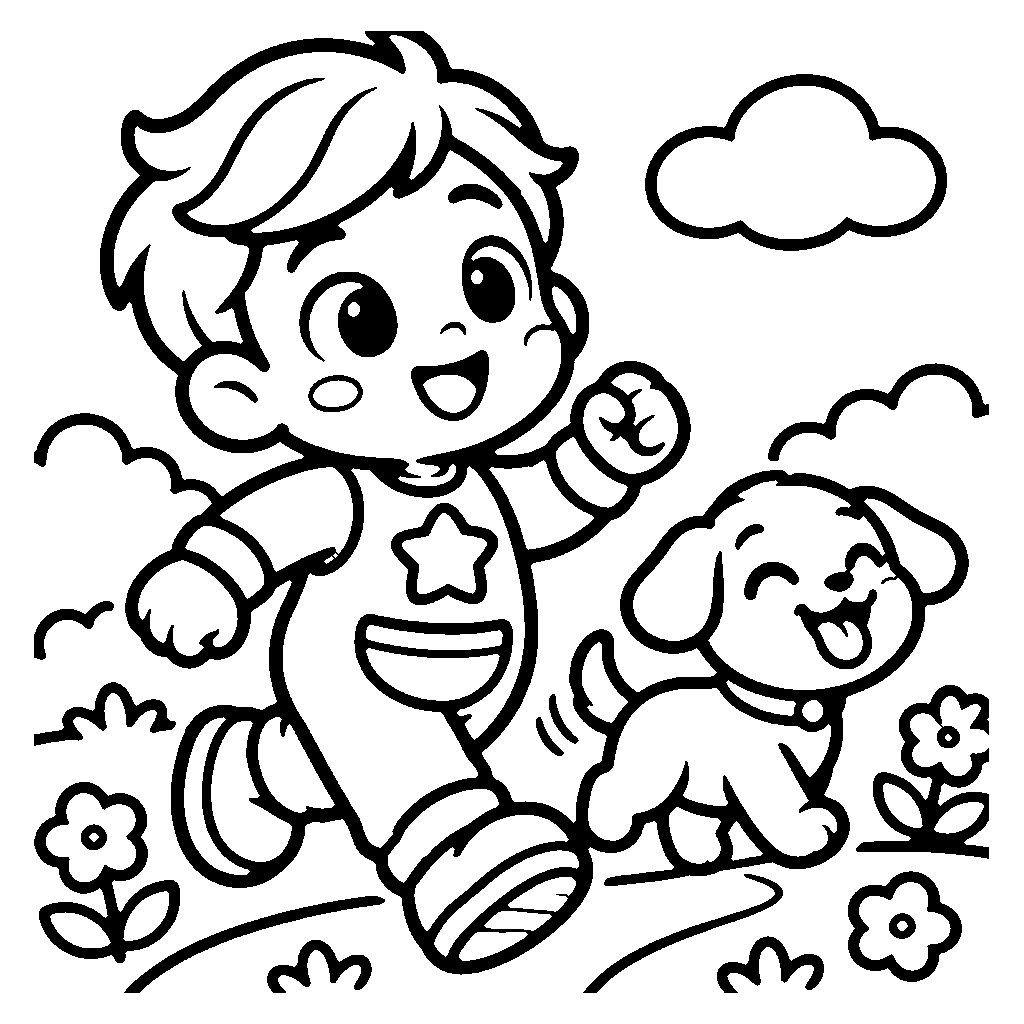
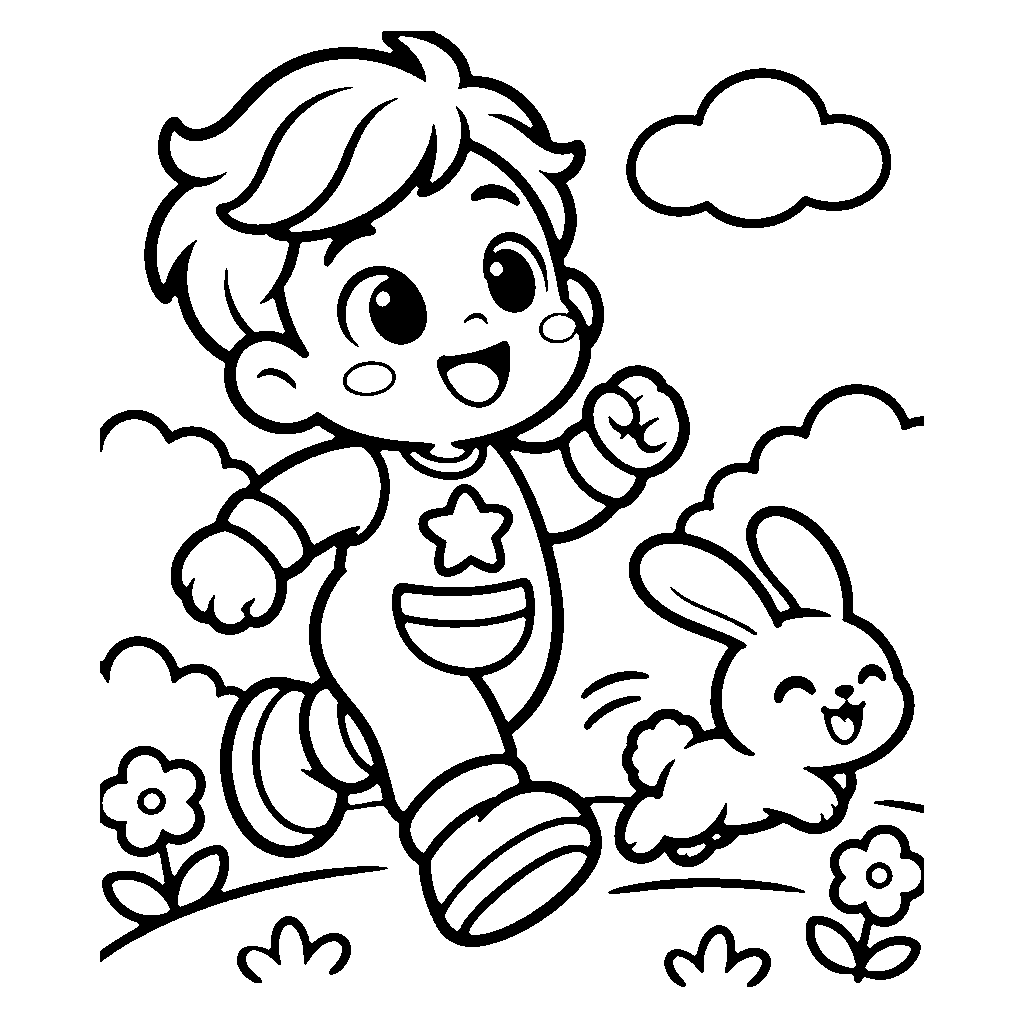
Colouring: magic crayon in Mo's real colours + rabbit page (#408)
* Colouring: Mo's real colours for the magic crayon (39 aligned coloured guides), rabbit page for pose-32

Claude-Session: https://claude.ai/code/session_013wiJDRdH28m1FqwwMnvbtM

* Bump cache to v347

Claude-Session: https://claude.ai/code/session_013wiJDRdH28m1FqwwMnvbtM

---------

Changed region(s): [[0.0312, 0.0312, 0.9688, 0.9688]]

diff --git a/www/mo-color.js b/www/mo-color.js
@@ -170,7 +170,7 @@
     // background = the biggest shape touching the edge of the page
     bgL = -1; let best = 0;
     for (let i = 0; i < N; i++) for (const p of [i, (N - 1) * N + i, i * N, i * N + N - 1]) { const L = labels[p]; if (L >= 0 && regions[L] > best) { best = regions[L]; bgL = L; } }
-    colorOf = new Array(R).fill(null); glitterOf = new Array(R).fill(false); history = []; adj = null; guideCol = null; celebrated = false; halfSaid = false; fills = 0;
+    colorOf = new Array(R).fill(null); glitterOf = new Array(R).fill(false); history = []; adj = null; guideCol = null; guideData = null; celebrated = false; halfSaid = false; fills = 0;
   }
   function hex(c) { const n = parseInt(c.slice(1), 16); return [n >> 16 & 255, n >> 8 & 255, n & 255]; }
   let fill;
@@ -188,7 +188,16 @@
     if (clip) ctx.restore();
   }
   function setRegion(L, color, glitter) {
-    const c = color ? hex(color) : [255, 255, 255], f = fill.data;
+    const f = fill.data;
+    if (color && color[0] === 'g' && guideData && guideCol && guideCol[L]) {
+      const cl = guideCol[L], d = guideData;
+      for (let k = start[L]; k < start[L + 1]; k++) { const p = order[k], i = p * 4; let best = cl[0], bd = 1e9;
+        if (Math.min(d[i], d[i + 1], d[i + 2]) > 236) best = WHITE3;   // white in the coloured version (margin, clouds) stays white
+        else if (Math.max(d[i], d[i + 1], d[i + 2]) >= 75) for (const c of cl) { const dd = (c[0] - d[i]) ** 2 + (c[1] - d[i + 1]) ** 2 + (c[2] - d[i + 2]) ** 2; if (dd < bd) { bd = dd; best = c; } }
+        f[i] = best[0]; f[i + 1] = best[1]; f[i + 2] = best[2]; }
+      return;
+    }
+    const c = color ? hex(color) : [255, 255, 255];
     for (let k = start[L]; k < start[L + 1]; k++) {
       const i = order[k] * 4;
       if (glitter) {                                // sparkly texture: light speckles and a soft sheen
@@ -204,17 +213,38 @@
     guideImg = null; if (!src) return;
     const g = new Image(); g.onload = () => { guideImg = g; guideCol = null; }; g.onerror = () => { guideImg = null; }; g.src = src;
   }
+  /* The coloured version → for each shape, its main colours (up to 4, each at least 10% of it).
+     One colour: a flat fill. Several (a sky and grass that share a shape because of a tiny gap in a line,
+     hair that leaks into the sky…): every pixel takes the nearest of them, so each part gets its real colour. */
+  let guideData = null;
   function guideColours() {
     if (guideCol || !guideImg) return guideCol;
     const c = document.createElement('canvas'); c.width = c.height = N; const x = c.getContext('2d', { willReadFrequently: true }); fitDraw(x, guideImg);
-    const d = x.getImageData(0, 0, N, N).data; guideCol = [];
+    const d = guideData = x.getImageData(0, 0, N, N).data; guideCol = [];
     for (let L = 0; L < regions.length; L++) {
-      let r = 0, g = 0, b = 0, n = 0; const step = Math.max(1, Math.floor(regions[L] / 1500));
-      for (let k = start[L]; k < start[L + 1]; k += step) { const i = order[k] * 4; r += d[i]; g += d[i + 1]; b += d[i + 2]; n++; }
-      guideCol[L] = n ? '#' + [r, g, b].map(v => Math.round(v / n).toString(16).padStart(2, '0')).join('') : null;
+      const bins = new Map(), step = Math.max(1, Math.floor(regions[L] / 3000)); let all = 0;
+      for (let k = start[L]; k < start[L + 1]; k += step) { const i = order[k] * 4, R = d[i], G = d[i + 1], B = d[i + 2];
+        if (Math.max(R, G, B) < 75) continue; all++;
+        const key = Math.min(R, G, B) > 232 ? -1 : (R >> 5) << 6 | (G >> 5) << 3 | (B >> 5), e = bins.get(key) || [0, 0, 0, 0];
+        e[0]++; e[1] += R; e[2] += G; e[3] += B; bins.set(key, e); }
+      // merge similar shades (light / dark green…) into one colour each, biggest first
+      const groups = [];
+      [...bins.entries()].sort((a, b) => b[1][0] - a[1][0]).forEach(([key, e]) => {
+        const c = [e[1] / e[0], e[2] / e[0], e[3] / e[0]];
+        const g = groups.find(g => key !== -1 && !g.white && (g.c[0] - c[0]) ** 2 + (g.c[1] - c[1]) ** 2 + (g.c[2] - c[2]) ** 2 < 70 * 70);
+        if (g) { g.n += e[0]; g.s[0] += e[1]; g.s[1] += e[2]; g.s[2] += e[3]; }
+        else groups.push({ n: e[0], s: [e[1], e[2], e[3]], c, white: key === -1 });
+      });
+      const W = groups.find(g => g.white), wn = W ? W.n : 0;
+      let cl = groups.filter(g => !g.white && g.n >= Math.max(30, (all - wn) * .04)).sort((a, b) => b.n - a.n).slice(0, 6)
+        .map(g => g.s.map(v => Math.round(v / g.n)));
+      if (W && (wn > all * .7 || !cl.length)) cl = [[255, 255, 255]].concat(wn > all * .9 ? [] : cl);
+      guideCol[L] = cl.length ? cl : null;
     }
     return guideCol;
   }
+  const WHITE3 = [255, 255, 255];
+  const toHex = c => '#' + c.map(v => v.toString(16).padStart(2, '0')).join('');
   function neighbours() {
     if (adj) return adj; adj = regions.map(() => new Set()); const D = 7;
     for (let y = 0; y < N - D; y += 2) for (let x = 0; x < N - D; x += 2) { const i = y * N + x, a = labels[i]; if (a < 0) continue;
@@ -222,7 +252,7 @@
     return adj;
   }
   function magicColour(L) {
-    const gc = guideColours(); if (gc && gc[L]) return gc[L];
+    const gc = guideColours(); if (gc && gc[L]) return gc[L].length > 1 ? 'g' + L : toHex(gc[L][0]);
     if (L === bgL) return '#D9F1FF';
     const used = new Set([...neighbours()[L]].map(n => colorOf[n]).filter(Boolean));
     const opts2 = HAPPY.filter(h => !used.has(h)); const pool = opts2.length ? opts2 : HAPPY;

diff --git a/www/coloring/meet/pages.js b/www/coloring/meet/pages.js
@@ -2,6 +2,6 @@
    Add a pose name here when its page is added; the "Warnai Mo" button only shows for poses listed here.
    Prompts for every page: art/coloring-meet-mo-prompts.md */
 window.MO_COLOR_PAGES = ["alright", "idea", "ok", "pose-01", "pose-02", "pose-04", "pose-05", "pose-06", "pose-07", "pose-08", "pose-11", "pose-12", "pose-13", "pose-14", "pose-15", "pose-16", "pose-18", "pose-20", "pose-21", "pose-22", "pose-23", "pose-24", "pose-25", "pose-26", "pose-27", "pose-28", "pose-29", "pose-30", "pose-31", "pose-32", "pose-34", "pose-35", "pose-37", "pose-41", "pose-42", "run", "thank-you", "wow", "yes", "yeyy"];
-/* Poses that also have the coloured version (<pose>-color.png, the same page in Mo's real colours):
+/* Poses that also have the coloured version (<pose>-color.webp, the same page in Mo's real colours):
    the 🪄 magic crayon then paints each shape exactly like it. */
-window.MO_COLOR_GUIDES = [];
+window.MO_COLOR_GUIDES = ["alright", "ok", "pose-01", "pose-02", "pose-04", "pose-05", "pose-06", "pose-07", "pose-08", "pose-11", "pose-12", "pose-13", "pose-14", "pose-15", "pose-16", "pose-18", "pose-20", "pose-21", "pose-22", "pose-23", "pose-24", "pose-25", "pose-26", "pose-27", "pose-28", "pose-29", "pose-30", "pose-31", "pose-32", "pose-34", "pose-35", "pose-37", "pose-41", "pose-42", "run", "thank-you", "wow", "yes", "yeyy"];

diff --git a/www/babymo-puzzle.html b/www/babymo-puzzle.html
@@ -1014,7 +1014,7 @@ function onComplete(){
     cb.hidden = !has; cb.closest('.bm-wa').classList.toggle('has-color', has);
     cb.textContent = PL('🖍 Warnai Mo', '🖍 Colour Mo');
     cb.onclick = () => { try { playSparkle(); } catch (e) {} window.MoColor && MoColor.open({ src: 'coloring/meet/' + CUR_POSE[0] + '.png', key: 'meet-' + CUR_POSE[0],
-      guide: (window.MO_COLOR_GUIDES || []).indexOf(CUR_POSE[0]) >= 0 ? 'coloring/meet/' + CUR_POSE[0] + '-color.png' : null,
+      guide: (window.MO_COLOR_GUIDES || []).indexOf(CUR_POSE[0]) >= 0 ? 'coloring/meet/' + CUR_POSE[0] + '-color.webp' : null,
       title: (POSE_NAMES[CUR_POSE[0]] || ['Baby Mo', 'Baby Mo'])[PZ_EN ? 1 : 0] + ' 🖍' }); }; }
   // Grid gets gold border
   document.getElementById('grid').classList.add('complete');

diff --git a/www/sw.js b/www/sw.js
@@ -10,7 +10,7 @@
      - same-origin static → cache-first (fast), refreshed in background.
      - cross-origin (fonts) → opportunistic cache.
    ============================================================ */
-const CACHE = "babymo-games-v346";
+const CACHE = "babymo-games-v347";
 
 const SHELL = [
   "/",

diff --git a/tools/coloring-guides.py b/tools/coloring-guides.py
@@ -1,0 +1,71 @@
+# Coloured versions of the Meet Baby Mo colouring pages → www/coloring/meet/<pose>-color.webp (for the 🪄 magic crayon).
+#   python3 tools/coloring-guides.py <sheet.png> <cols>x<rows> <pose1,pose2,...> [<sheet> <grid> <poses> ...]
+# ChatGPT redraws a little when it colours, so each panel is split like the line art (tools/split-coloring-sheets.py),
+# framed like it (tools/clean-coloring.py) and then lined up with the page by a scale + shift search that makes
+# the coloured version's dark outlines fall on the page's lines. "-" skips a panel.
+import sys, numpy as np, importlib.util
+from PIL import Image
+from scipy import ndimage
+spec = importlib.util.spec_from_file_location('split', __file__.replace('coloring-guides.py', 'split-coloring-sheets.py'))
+src = open(spec.origin).read(); src = src[:src.index('out = sys.argv[1]')]       # only the helpers
+ns = {}; exec(compile(src, spec.origin, 'exec'), ns); gutter, frame_box = ns['gutter'], ns['frame_box']
+S = 1024
+
+def frame(rgb):                                   # same framing as clean-coloring.py
+    h, w = rgb.shape[:2]; k = S * .94 / max(h, w)
+    im = Image.fromarray(rgb).resize((int(w * k), int(h * k)), Image.LANCZOS)
+    c = Image.new('RGB', (S, S), (255, 255, 255)); c.paste(im, ((S - im.width) // 2, (S - im.height) // 2)); return c
+
+def warp(img, sx, dx, dy, sy=None):
+    sy = sx if sy is None else sy
+    im = img.resize((int(S * sx), int(S * sy)), Image.LANCZOS)
+    c = Image.new('RGB', (S, S), (255, 255, 255)); c.paste(im, ((S - im.width) // 2 + dx, (S - im.height) // 2 + dy)); return c
+
+def outline(img, n):
+    """near-black pixels only (a dark night sky is not an outline)"""
+    a = np.array(img.resize((n, n), Image.LANCZOS)).max(2); return a < 75
+
+def score(G, P, dx, dy):
+    g = np.roll(np.roll(G, dy, 0), dx, 1); return (g & P).sum() / max(1, g.sum())
+
+def align(guide, page):
+    """coarse-to-fine search of x/y scale + shift so the guide's outlines sit on the page's lines"""
+    best = (-1, 1, 1, 0, 0)
+    for q, scales, sh, around in ((8, np.arange(.8, 1.201, .03), 18, None), (4, None, 4, True), (2, None, 3, True)):
+        n = S // q; P = ndimage.binary_dilation(np.array(page.resize((n, n)).convert('L')) < 128, iterations=1)
+        if around:
+            _, bx, by, bdx, bdy = best; st = .03 if q == 4 else .012
+            cand = [(bx + i * st / 2, by + j * st / 2) for i in (-2, -1, 0, 1, 2) for j in (-2, -1, 0, 1, 2)]
+            cx, cy = bdx // q, bdy // q
+        else: cand = [(s, s) for s in scales]; cx = cy = 0
+        res = best
+        for sx, sy in cand:
+            G = outline(warp(guide, sx, 0, 0, sy), n)
+            for dy in range(cy - sh, cy + sh + 1):
+                for dx in range(cx - sh, cx + sh + 1):
+                    v = score(G, P, dx, dy)
+                    if v > res[0]: res = (v, sx, sy, dx * q, dy * q)
+        best = res
+    return best
+
+args = sys.argv[1:]
+for i in range(0, len(args), 3):
+    path, grid, poses = args[i], args[i + 1], args[i + 2].split(',')
+    c, r = map(int, grid.split('x'))
+    im = Image.open(path).convert('RGBA'); bg = Image.new('RGBA', im.size, (255, 255, 255, 255)); bg.alpha_composite(im)
+    rgb = np.array(bg.convert('RGB')); a = np.array(bg.convert('L')); H, W = a.shape; d = a < 60
+    xs = [0] + [gutter(d, 0, int(W * (k / c - .15)), int(W * (k / c + .15))) for k in range(1, c)] + [W]
+    ys = [0] + [gutter(d, 1, int(H * (k / r - .15)), int(H * (k / r + .15))) for k in range(1, r)] + [H]
+    n = 0
+    for yi in range(r):
+        for xi in range(c):
+            p = poses[n]; n += 1
+            if p == '-': continue
+            cell_l = a[ys[yi]:ys[yi + 1], xs[xi]:xs[xi + 1]]
+            y0, y1, x0, x1 = frame_box(np.where(cell_l < 60, 0, 255).astype(np.uint8))
+            panel = rgb[ys[yi]:ys[yi + 1], xs[xi]:xs[xi + 1]][y0:y1, x0:x1]
+            g = frame(panel)
+            page = Image.open(f'www/coloring/meet/{p}.png').convert('RGB')
+            sc, sx, sy, dx, dy = align(g, page)
+            warp(g, sx, dx, dy, sy).resize((768, 768), Image.LANCZOS).save(f'www/coloring/meet/{p}-color.webp', quality=82, method=6)
+            print(p, 'match %.2f' % sc, 'scale %.2f %.2f' % (sx, sy), 'shift', dx, dy)

diff --git a/tools/split-coloring-sheets.py b/tools/split-coloring-sheets.py
@@ -25,6 +25,10 @@ def gutter(dark, axis, lo, hi):
 
 def strip_frame(a):
     """crop just inside a rounded-rectangle frame, if the panel has one"""
+    y0, y1, x0, x1 = frame_box(a); return a[y0:y1, x0:x1]
+
+def frame_box(a):
+    """(y0, y1, x0, x1) just inside the panel's frame (the whole panel when it has none)"""
     d = a < 128; h, w = d.shape
     def inner(prof, n, rev):
         idx = range(n - 1, -1, -1) if rev else range(n)
@@ -36,9 +40,9 @@ def strip_frame(a):
         return None
     cols, rows = d.mean(0), d.mean(1)
     l, r, t, b = inner(cols, w, False), inner(cols, w, True), inner(rows, h, False), inner(rows, h, True)
-    if None in (l, r, t, b): return a
+    if None in (l, r, t, b): return 0, h, 0, w
     m = max(8, int(min(h, w) * .02))         # step past the frame's rounded corners
-    return a[t + m:b - m + 1, l + m:r - m + 1]
+    return t + m, b - m + 1, l + m, r - m + 1
 
 out = sys.argv[1]; os.makedirs(out, exist_ok=True)
 args = sys.argv[2:]
